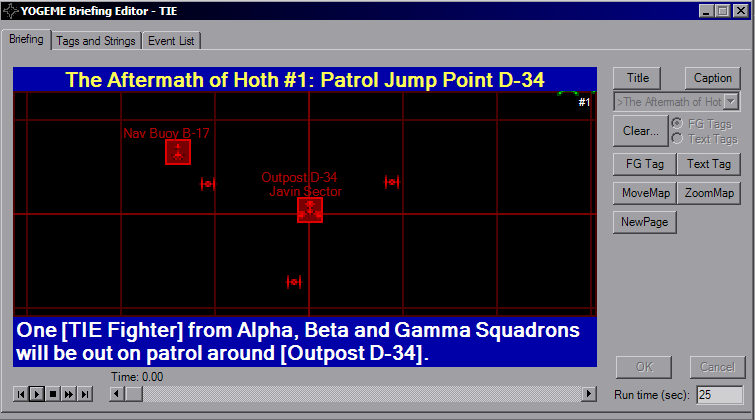
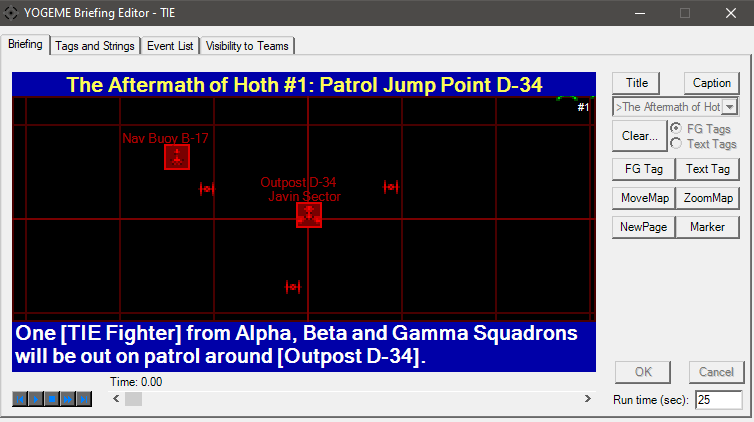
Marker event changes

diff --git a/help file/pages/TIE/brief.html b/help file/pages/TIE/brief.html
@@ -45,7 +45,7 @@ A word of caution for custom missions; if you plan on replacing existing mission
 
 <p><i>Unknown 1</i> is the only unk value you can mess with, Unk3 doesn't belong to TIE and Unk2 has been defined and is auto-generated. The <i>Event Time</i> field is the raw number with the rounded value in seconds listed next to it. Changing that value will automatically move the event up and down the list as neccessary. If the "Shift All" box is checked, it will also move every event after it by the same amount. Changing the <i>Event</i> drop-box will enable and disable <i>Parameter</i> fields as neccessary and behave the same as on the main Briefing tab.</p>
 
-<p>Now, this is a quirk of TIE, but as you can see in the image above the Title is redefined after every Page Break. That's because <u>Page Break clears both the caption and title</u>. You can redefine the Title at the same time, but make sure the Page Break is higher on the list.</p>
+<p>Now, this is a quirk of TIE, but as you can see in the image above the Title is redefined after every Page Break. That's because <u>Page Break clears both the caption and title</u>. You can redefine the Title at the same time, but make sure the Page Break is higher on the list. Use the "SkipMarker" event to add points where the "Next" button in playback will stop, but won't clear the text.</p>
 
 <p>The <i>X</i> and <i>Y</i> values are the raw numbers on the same scale as the raw FG Waypoint values. For Zoom, 48 is generally a good number and is the YOGEME default.</p>
 
